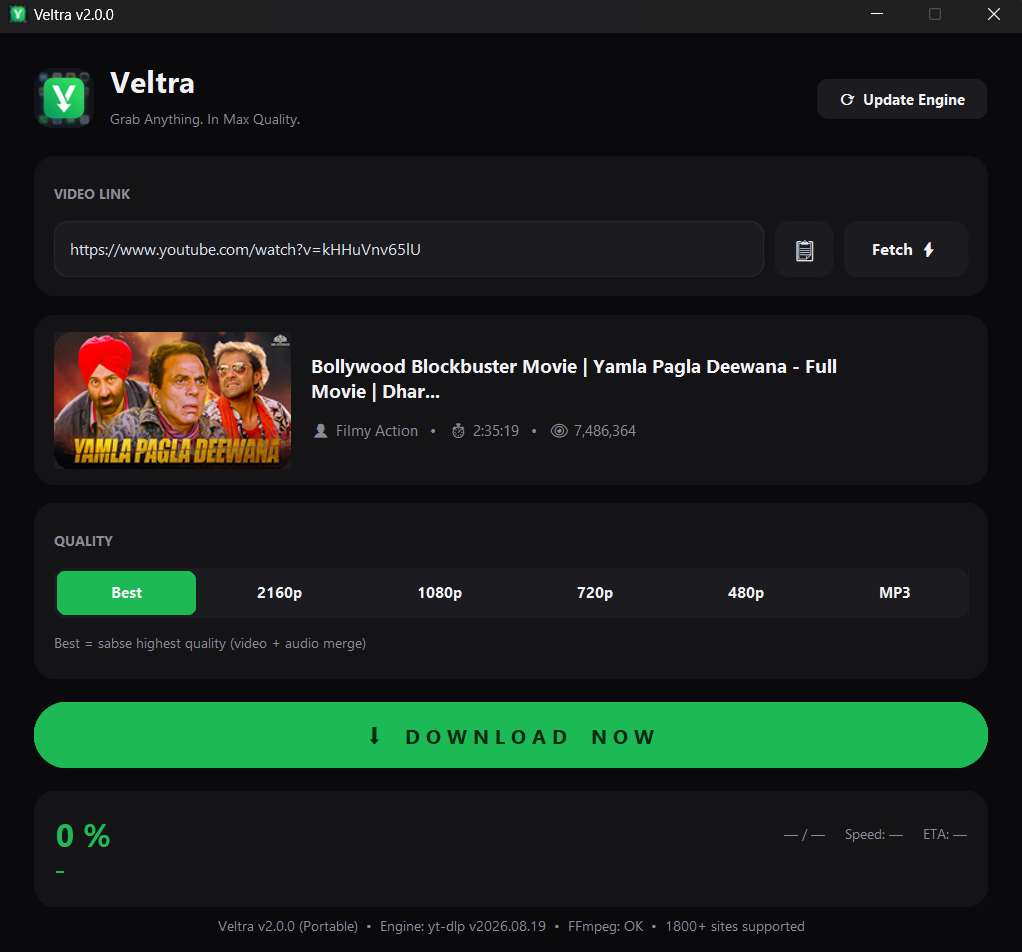
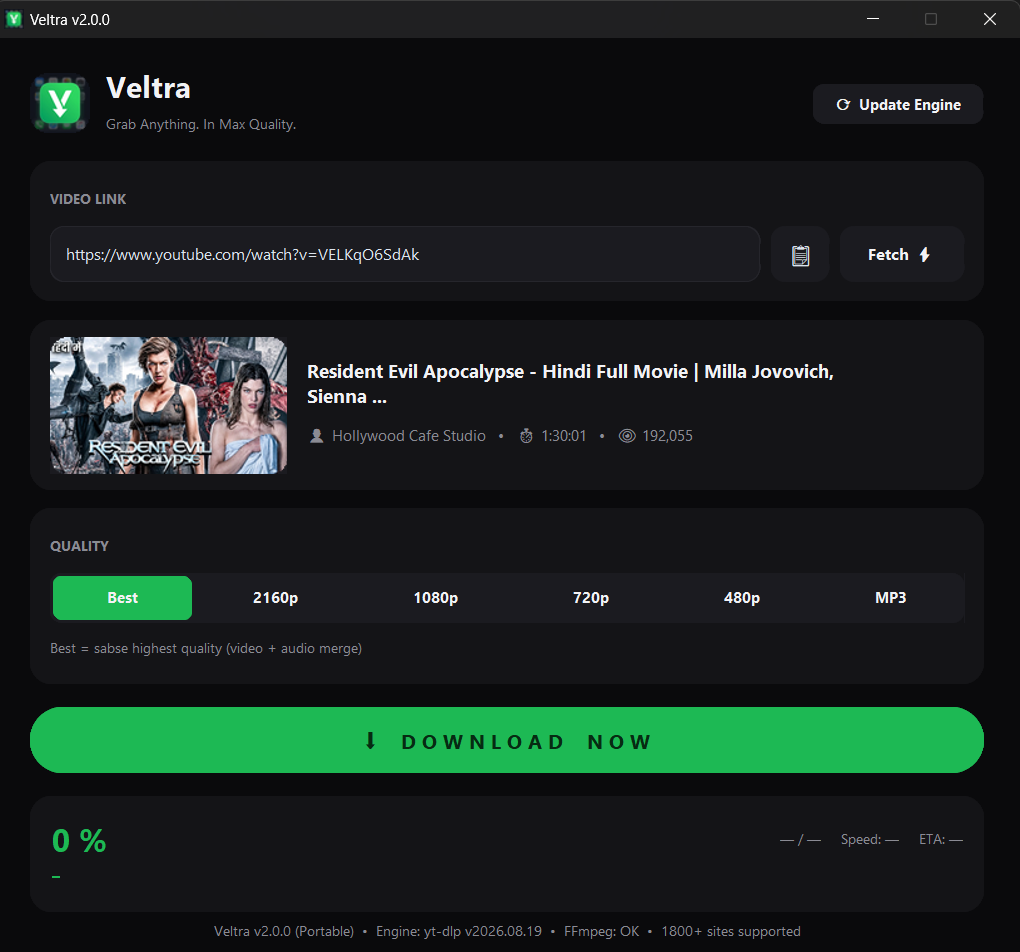
Update screenshot

diff --git a/Readme.md b/Readme.md
@@ -208,7 +208,7 @@ This project is licensed under the **MIT License** — see the [LICENSE](LICENSE
 </p>
 
 <p align="center">
-Made by <a href="https://github.com/shahzain112">Shahzain Ahmed</a>
+Made with 💚 by <a href="https://github.com/shahzain112">Shahzain Ahmed</a>
 </p>
 
 <p align="center">
